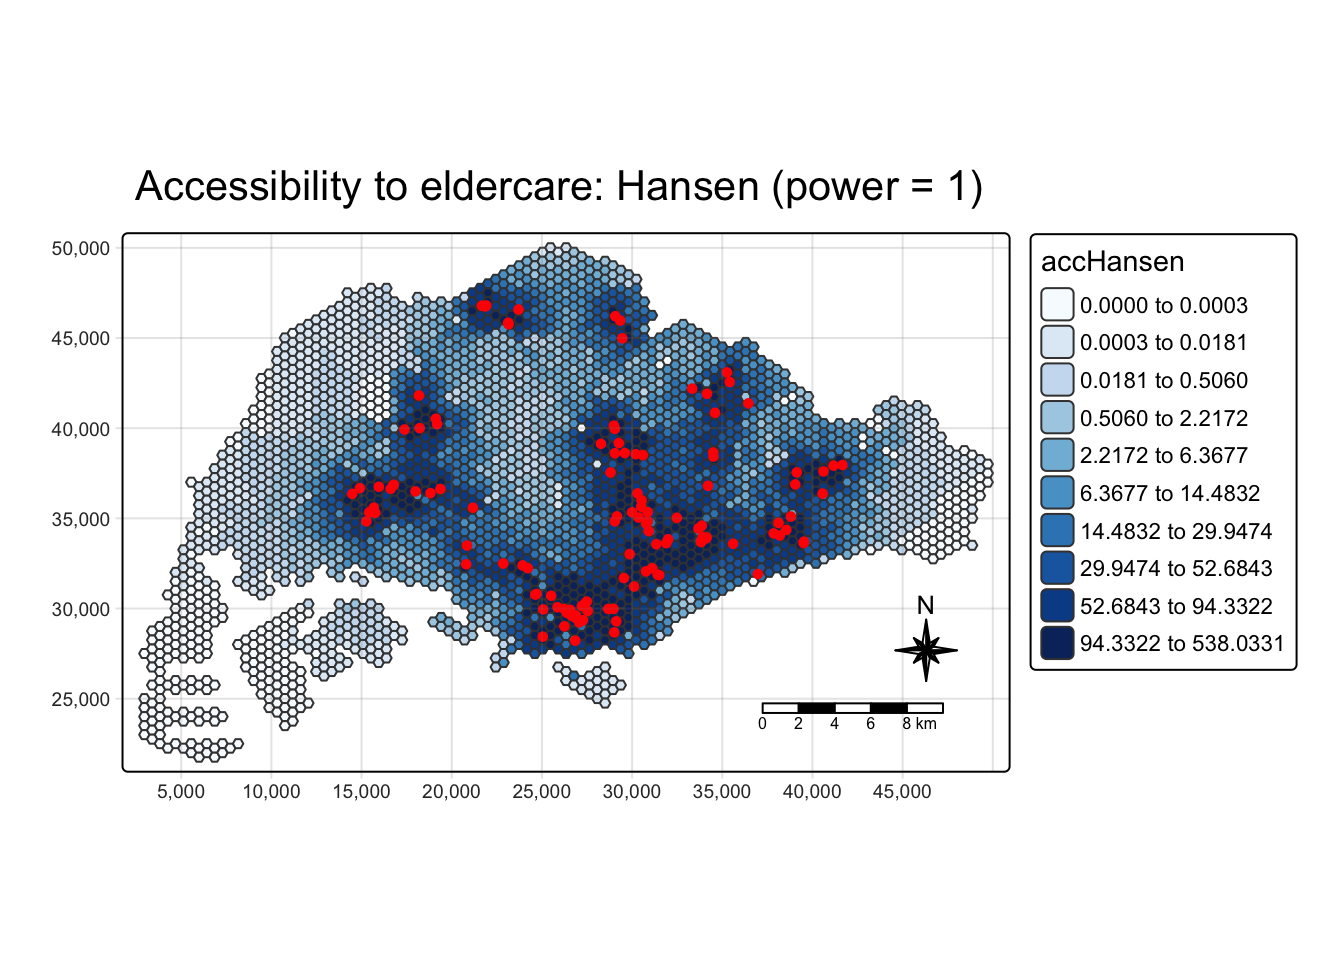
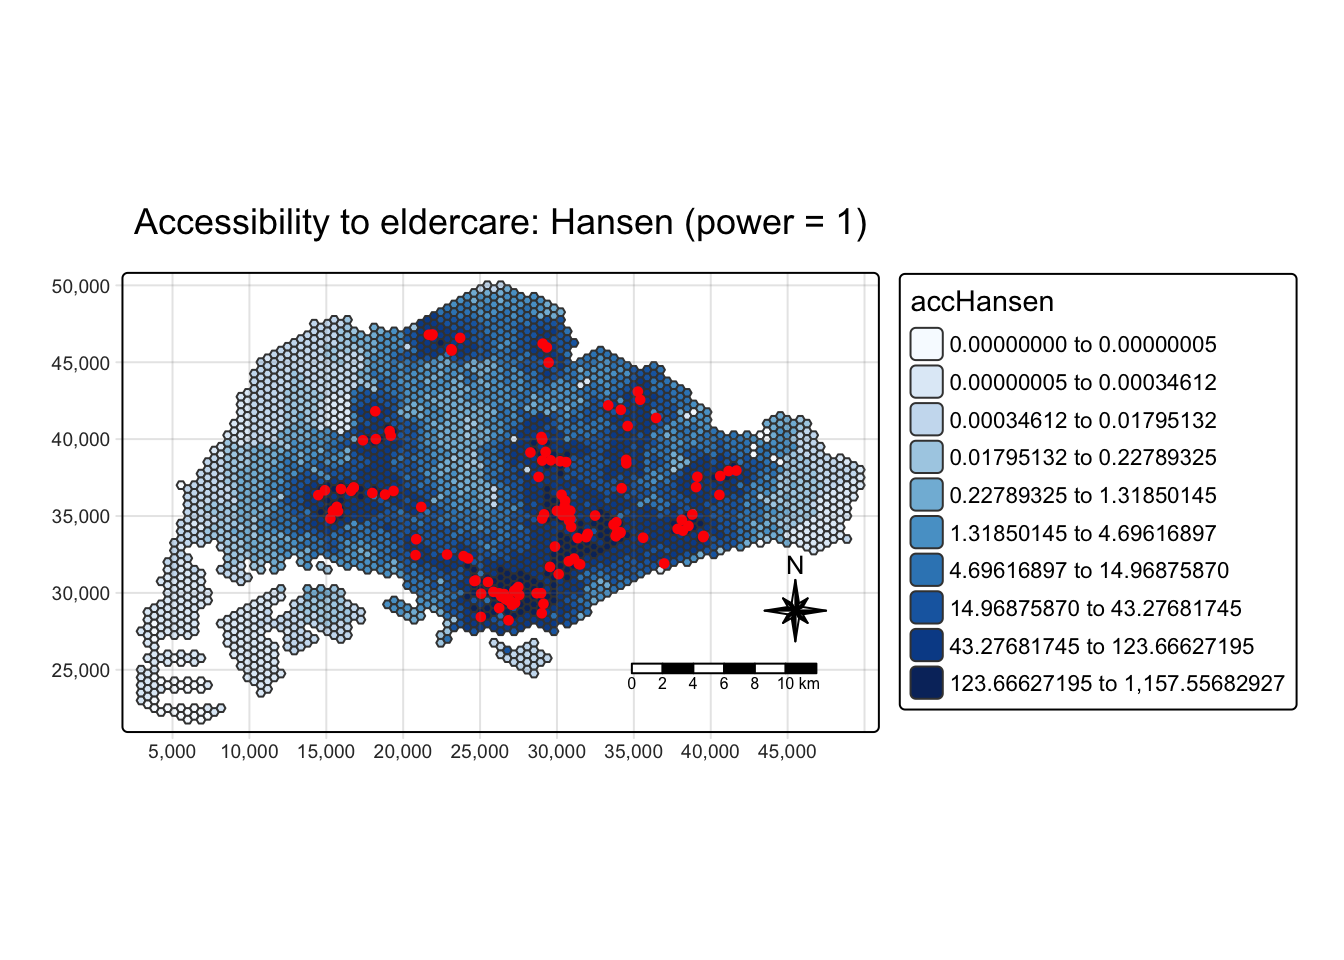
fix

diff --git a/_site/In-class_Ex/In-class_Ex09/In-class_Ex09.html b/_site/In-class_Ex/In-class_Ex09/In-class_Ex09.html
@@ -379,24 +379,27 @@ Projected CRS: SVY21 / Singapore TM</code></pre>
 <span id="cb7-34"><a href="#cb7-34" aria-hidden="true" tabindex="-1"></a>  <span class="fu">as_tibble</span>(out)</span>
 <span id="cb7-35"><a href="#cb7-35" aria-hidden="true" tabindex="-1"></a>})</span>
 <span id="cb7-36"><a href="#cb7-36" aria-hidden="true" tabindex="-1"></a></span>
-<span id="cb7-37"><a href="#cb7-37" aria-hidden="true" tabindex="-1"></a>maps <span class="ot">&lt;-</span> purrr<span class="sc">::</span><span class="fu">imap</span>(acc_list, <span class="cf">function</span>(acc_df, i) {</span>
-<span id="cb7-38"><a href="#cb7-38" aria-hidden="true" tabindex="-1"></a>  hex_tmp <span class="ot">&lt;-</span> <span class="fu">bind_cols</span>(hexagons, acc_df)</span>
-<span id="cb7-39"><a href="#cb7-39" aria-hidden="true" tabindex="-1"></a>  <span class="fu">tm_shape</span>(hex_tmp, <span class="at">bbox =</span> mapex) <span class="sc">+</span></span>
-<span id="cb7-40"><a href="#cb7-40" aria-hidden="true" tabindex="-1"></a>    <span class="fu">tm_polygons</span>(<span class="at">fill =</span> <span class="st">"accHansen"</span>,</span>
-<span id="cb7-41"><a href="#cb7-41" aria-hidden="true" tabindex="-1"></a>                <span class="at">fill.scale =</span> <span class="fu">tm_scale_intervals</span>(</span>
-<span id="cb7-42"><a href="#cb7-42" aria-hidden="true" tabindex="-1"></a>                  <span class="at">style =</span> <span class="st">"quantile"</span>,</span>
-<span id="cb7-43"><a href="#cb7-43" aria-hidden="true" tabindex="-1"></a>                  <span class="at">n =</span> <span class="dv">10</span>,</span>
-<span id="cb7-44"><a href="#cb7-44" aria-hidden="true" tabindex="-1"></a>                  <span class="at">values =</span> <span class="st">"brewer.blues"</span>)) <span class="sc">+</span></span>
-<span id="cb7-45"><a href="#cb7-45" aria-hidden="true" tabindex="-1"></a>    <span class="fu">tm_shape</span>(eldercare) <span class="sc">+</span></span>
-<span id="cb7-46"><a href="#cb7-46" aria-hidden="true" tabindex="-1"></a>    <span class="fu">tm_dots</span>(<span class="at">size =</span> <span class="fl">0.3</span>, <span class="at">fill =</span> <span class="st">"red"</span>, <span class="at">col =</span> <span class="st">"black"</span>) <span class="sc">+</span></span>
-<span id="cb7-47"><a href="#cb7-47" aria-hidden="true" tabindex="-1"></a>    <span class="fu">tm_title</span>(<span class="fu">paste0</span>(<span class="st">"Accessibility to eldercare: Hansen (power = "</span>, powers[i], <span class="st">")"</span>)) <span class="sc">+</span></span>
-<span id="cb7-48"><a href="#cb7-48" aria-hidden="true" tabindex="-1"></a>    <span class="fu">tm_layout</span>(<span class="at">frame =</span> <span class="cn">TRUE</span>) <span class="sc">+</span></span>
-<span id="cb7-49"><a href="#cb7-49" aria-hidden="true" tabindex="-1"></a>    <span class="fu">tm_compass</span>(<span class="at">type =</span> <span class="st">"8star"</span>, <span class="at">size =</span> <span class="dv">2</span>) <span class="sc">+</span></span>
-<span id="cb7-50"><a href="#cb7-50" aria-hidden="true" tabindex="-1"></a>    <span class="fu">tm_scalebar</span>() <span class="sc">+</span></span>
-<span id="cb7-51"><a href="#cb7-51" aria-hidden="true" tabindex="-1"></a>    <span class="fu">tm_grid</span>(<span class="at">alpha =</span> <span class="fl">0.2</span>)</span>
-<span id="cb7-52"><a href="#cb7-52" aria-hidden="true" tabindex="-1"></a>})</span>
-<span id="cb7-53"><a href="#cb7-53" aria-hidden="true" tabindex="-1"></a></span>
-<span id="cb7-54"><a href="#cb7-54" aria-hidden="true" tabindex="-1"></a><span class="fu">invisible</span>(<span class="fu">lapply</span>(maps, print))</span></code><button title="Copy to Clipboard" class="code-copy-button"><i class="bi"></i></button></pre></div>
+<span id="cb7-37"><a href="#cb7-37" aria-hidden="true" tabindex="-1"></a>hex_list <span class="ot">&lt;-</span> <span class="fu">lapply</span>(acc_list, <span class="cf">function</span>(a) <span class="fu">bind_cols</span>(hexagons, a))</span>
+<span id="cb7-38"><a href="#cb7-38" aria-hidden="true" tabindex="-1"></a>all_vals <span class="ot">&lt;-</span> <span class="fu">unlist</span>(<span class="fu">lapply</span>(hex_list, <span class="cf">function</span>(h) h<span class="sc">$</span>accHansen))</span>
+<span id="cb7-39"><a href="#cb7-39" aria-hidden="true" tabindex="-1"></a>brks <span class="ot">&lt;-</span> <span class="fu">quantile</span>(all_vals, <span class="at">probs =</span> <span class="fu">seq</span>(<span class="dv">0</span>, <span class="dv">1</span>, <span class="at">length.out =</span> <span class="dv">11</span>), <span class="at">na.rm =</span> <span class="cn">TRUE</span>)</span>
+<span id="cb7-40"><a href="#cb7-40" aria-hidden="true" tabindex="-1"></a></span>
+<span id="cb7-41"><a href="#cb7-41" aria-hidden="true" tabindex="-1"></a>maps <span class="ot">&lt;-</span> purrr<span class="sc">::</span><span class="fu">imap</span>(hex_list, <span class="cf">function</span>(hx, i) {</span>
+<span id="cb7-42"><a href="#cb7-42" aria-hidden="true" tabindex="-1"></a>  <span class="fu">tm_shape</span>(hx, <span class="at">bbox =</span> mapex) <span class="sc">+</span></span>
+<span id="cb7-43"><a href="#cb7-43" aria-hidden="true" tabindex="-1"></a>    <span class="fu">tm_polygons</span>(<span class="at">fill =</span> <span class="st">"accHansen"</span>,</span>
+<span id="cb7-44"><a href="#cb7-44" aria-hidden="true" tabindex="-1"></a>                <span class="at">fill.scale =</span> <span class="fu">tm_scale_intervals</span>(</span>
+<span id="cb7-45"><a href="#cb7-45" aria-hidden="true" tabindex="-1"></a>                  <span class="at">style  =</span> <span class="st">"fixed"</span>,</span>
+<span id="cb7-46"><a href="#cb7-46" aria-hidden="true" tabindex="-1"></a>                  <span class="at">breaks =</span> brks,</span>
+<span id="cb7-47"><a href="#cb7-47" aria-hidden="true" tabindex="-1"></a>                  <span class="at">values =</span> <span class="st">"brewer.blues"</span>)) <span class="sc">+</span></span>
+<span id="cb7-48"><a href="#cb7-48" aria-hidden="true" tabindex="-1"></a>    <span class="fu">tm_shape</span>(eldercare) <span class="sc">+</span></span>
+<span id="cb7-49"><a href="#cb7-49" aria-hidden="true" tabindex="-1"></a>    <span class="fu">tm_dots</span>(<span class="at">size =</span> <span class="fl">0.3</span>, <span class="at">fill =</span> <span class="st">"red"</span>, <span class="at">col =</span> <span class="st">"black"</span>) <span class="sc">+</span></span>
+<span id="cb7-50"><a href="#cb7-50" aria-hidden="true" tabindex="-1"></a>    <span class="fu">tm_title</span>(<span class="fu">paste0</span>(<span class="st">"Accessibility to eldercare: Hansen (power = "</span>, powers[i], <span class="st">")"</span>)) <span class="sc">+</span></span>
+<span id="cb7-51"><a href="#cb7-51" aria-hidden="true" tabindex="-1"></a>    <span class="fu">tm_layout</span>(<span class="at">frame =</span> <span class="cn">TRUE</span>) <span class="sc">+</span></span>
+<span id="cb7-52"><a href="#cb7-52" aria-hidden="true" tabindex="-1"></a>    <span class="fu">tm_compass</span>(<span class="at">type =</span> <span class="st">"8star"</span>, <span class="at">size =</span> <span class="dv">2</span>) <span class="sc">+</span></span>
+<span id="cb7-53"><a href="#cb7-53" aria-hidden="true" tabindex="-1"></a>    <span class="fu">tm_scalebar</span>() <span class="sc">+</span></span>
+<span id="cb7-54"><a href="#cb7-54" aria-hidden="true" tabindex="-1"></a>    <span class="fu">tm_grid</span>(<span class="at">alpha =</span> <span class="fl">0.2</span>)</span>
+<span id="cb7-55"><a href="#cb7-55" aria-hidden="true" tabindex="-1"></a>})</span>
+<span id="cb7-56"><a href="#cb7-56" aria-hidden="true" tabindex="-1"></a></span>
+<span id="cb7-57"><a href="#cb7-57" aria-hidden="true" tabindex="-1"></a><span class="fu">invisible</span>(<span class="fu">lapply</span>(maps, print))</span></code><button title="Copy to Clipboard" class="code-copy-button"><i class="bi"></i></button></pre></div>
 <div class="cell-output-display">
 <div>
 <figure class="figure">
